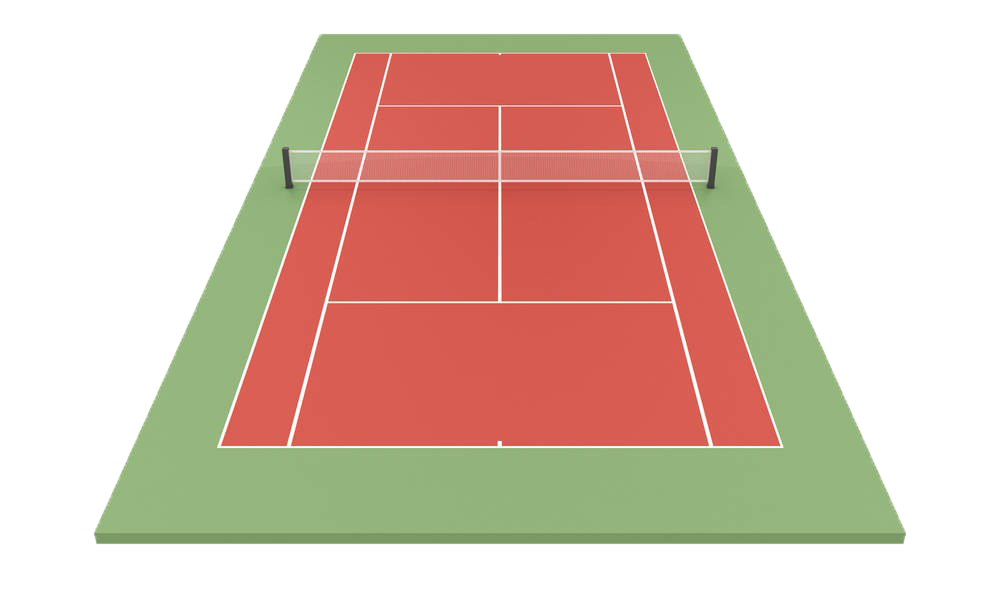
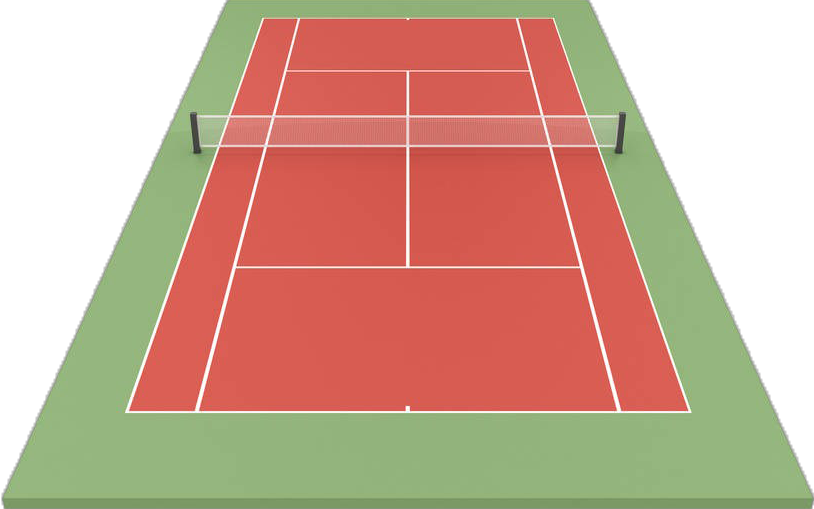
Bugg fix with image

diff --git a/src/styles/MatchCard.css b/src/styles/MatchCard.css
@@ -19,9 +19,9 @@
 }
 
 .courtImg {
-    width: 1500px;
+    width: 700px;
     height: auto;
-    margin-top: 6rem;
+    margin-top: 10rem;
 }
 
 .ScoreCard {
